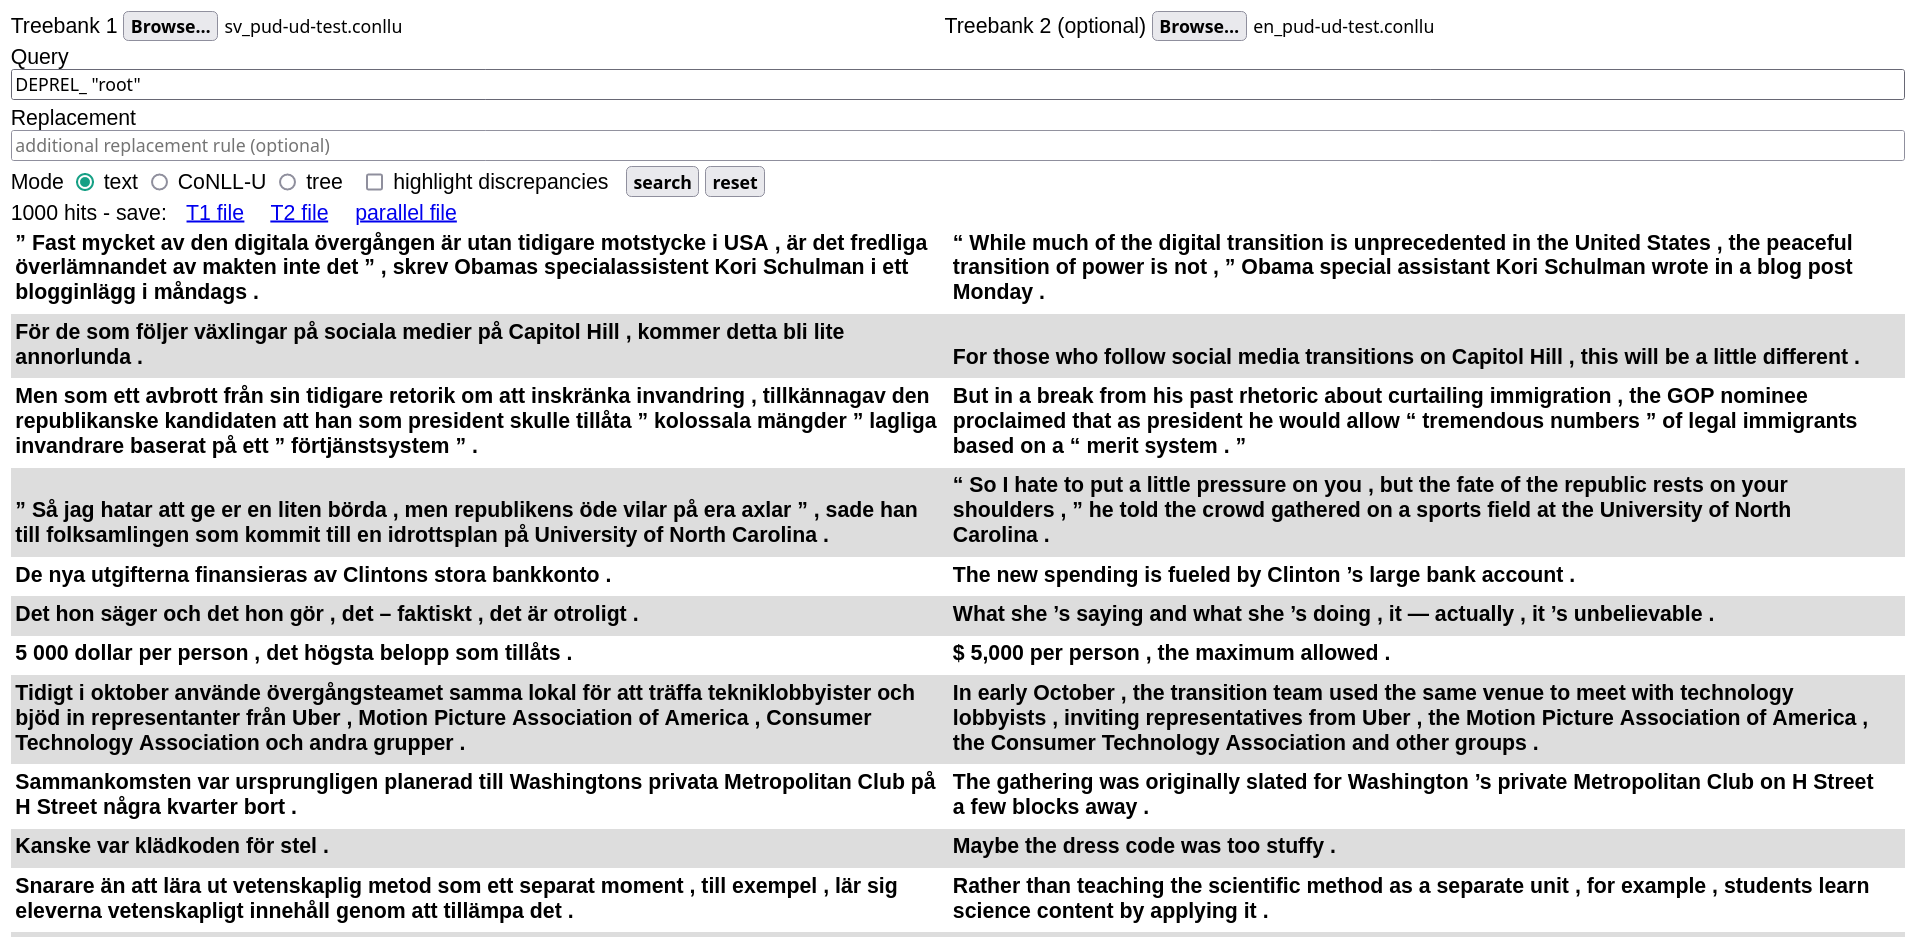
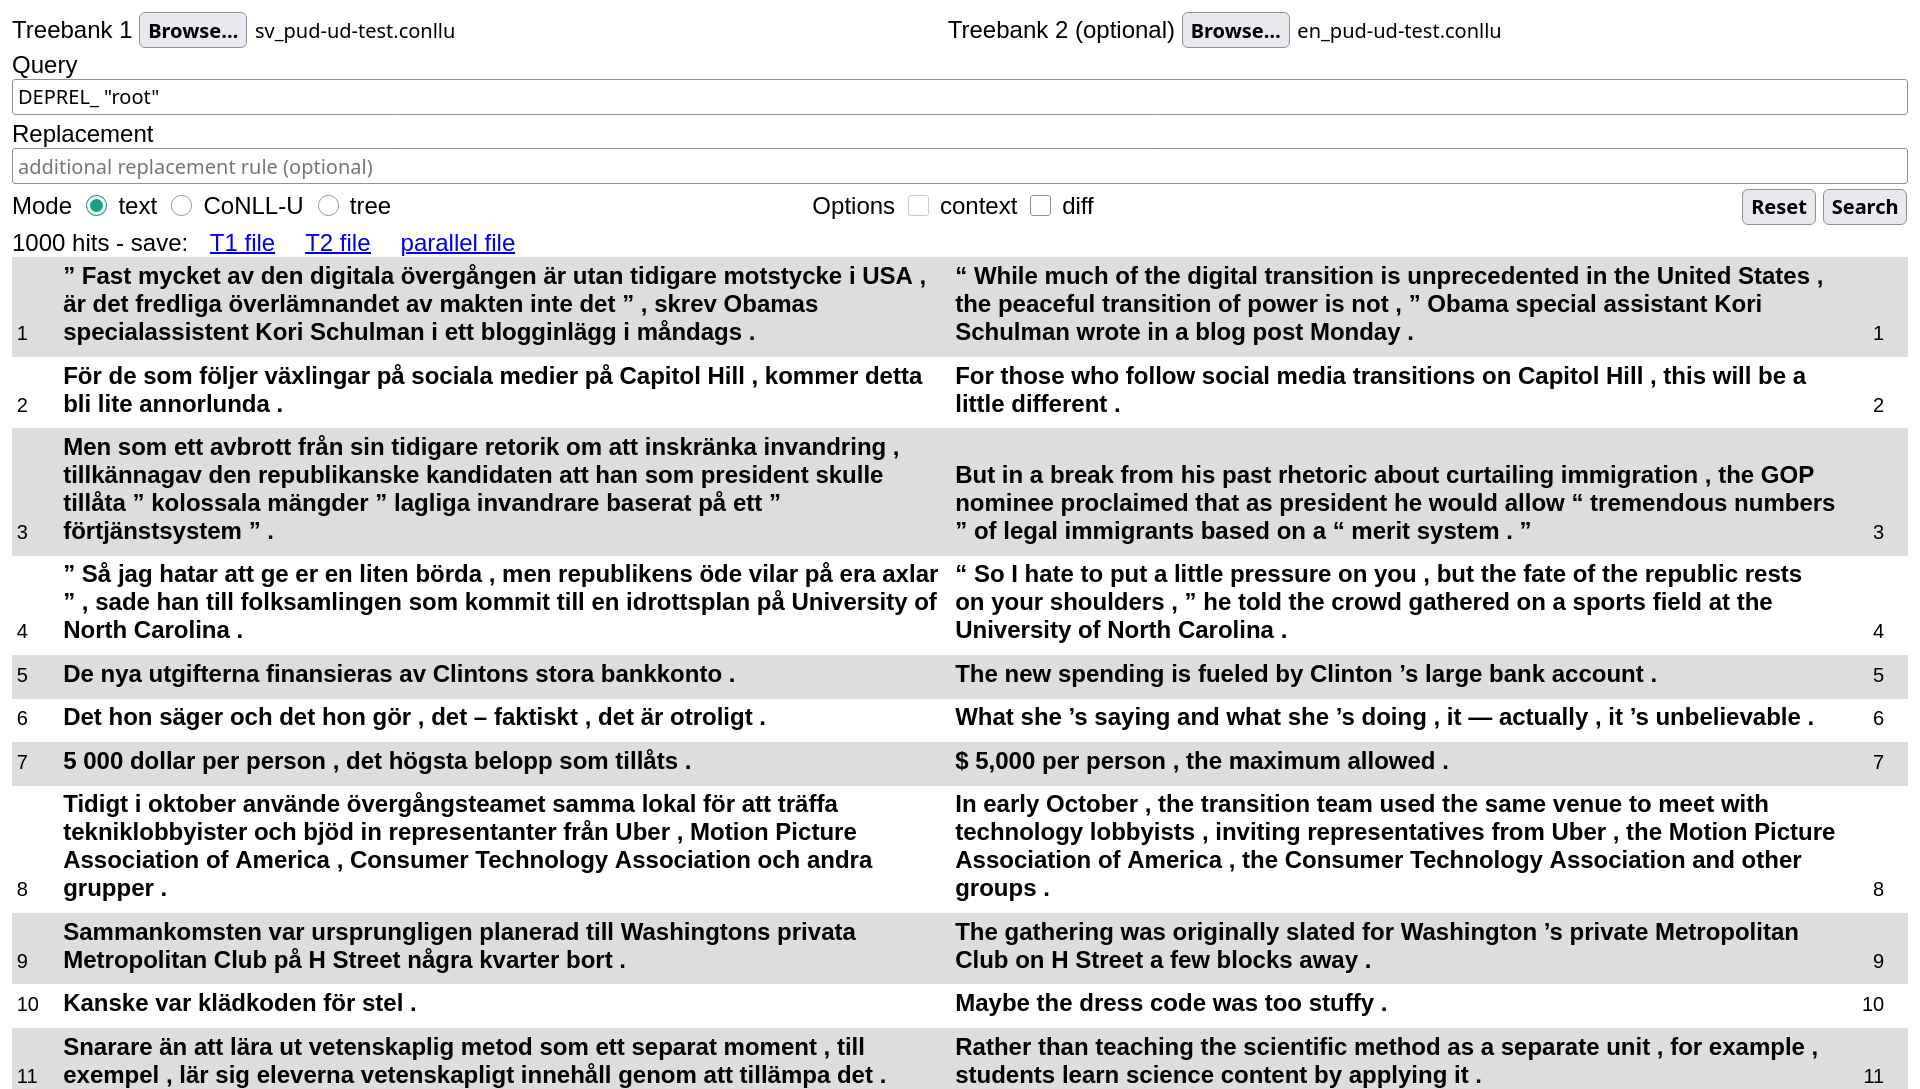
slimmer, updated tutorial and other pages

diff --git a/docs/tutorial.md b/docs/tutorial.md
@@ -5,17 +5,21 @@ layout: base
 
 # Getting started with STUnD
 
-## Specifying input files
+## Specifying the input files
 ![start screen](img/start.png)
 
-The "Browse..." buttons are used to specify one or two (parallel) input files, which have to be in strict [CoNNL-U format](https://universaldependencies.org/format.html). 
+The "Browse..." buttons are used to specify one or two (parallel) input files, which have to be in either __strict [CoNNL-U format](https://universaldependencies.org/format.html)__ or __"horizontal" plain text__ (one sentence per line). 
 
-If you only specify the input file(s), leaving the other fields blank, clicking "search" will run a default query that returns the full treebank:
+Plain text files are parsed with the [UDPipe 2 API](https://lindat.mff.cuni.cz/services/udpipe/api-reference.php), using the default model for the language they are written in.
+The language can be made explicit as a two-letter code followed by an underscore in the beginning of the name of the file (for example, an input file called `sv_rawtext.txt` would be assumed to be in Swedish). 
+If this is not the case, the language is automatically inferred.
+
+If you only specify the input file(s), leaving the other fields blank, clicking "Search" will run a default query that retrieves all sentences in the treebank(s):
 
 ![null search](img/null_search.png)
 
 ## Running a query
-Queries are specified in first text input field:
+Queries are specified in the first text input field:
 
 ![query for presens perfekt](img/presens_perfekt.png)
 
@@ -31,7 +35,7 @@ TREE_ (FEATS_ "VerbForm=Sup") [AND [LEMMA "ha", FEATS_ "Tense=Pres"]]
 This is a _simple_ or _monolingual_ query, looking for present perfect constructions in the Swedish treebank.
 It reads as
 
-> Look for (sub)trees (`TREE_`) where the root is a supinum (`(FEATS_ "VerbForm=Sup")`) and one of its direct dependents is the present of the verb "ha" (`AND [LEMMA "ha", FEATS_ "Tense=Pres"]`).
+> Look for (sub)trees (`TREE_`) where the root is a supinum (`(FEATS_ "VerbForm=Sup")`), one of whose direct dependents is the present of the verb "ha" (`AND [LEMMA "ha", FEATS_ "Tense=Pres"]`).
 
 Now only the subtrees matching the query (often full trees in this case) are highlighted in bold (cf. last row). 
 
@@ -46,18 +50,18 @@ It is then very easy to modify the query for other structurally similar tenses:
 - `TREE_ (FEATS_ "VerbForm=Sup") [FORM "hade"]` (pluperfect)
 - `TREE_ (FEATS_ "VerbForm=Sup") [FORM "ha"]` (perfect infinitive)
 
-Compared to the original "present perfect" query, these make it easier to see how queries work: first, the program tries to align the two treebanks to identify semantically equivalent subtrees; then the query is run on the left (Swedish) treebank and matching subtrees are returned alongside their English counterpart.
-For this reason, it can find correspondences such as "att ha sagt"-"as saying" (row 4), even though the English construction is not at all similar to the Swedish one. 
-Unlike query matching, the alignment step is not guaranteed to find all correspondences: in the picture below, you can see that sometimes a match is found in the Swedish treebank but nothing is highlighted in the corresponding English sentence (this is the case, for instance, in the last few rows). Some other times, a correspondence is found but is incorrect. 
+Compared to the original "present perfect" query, these make it easier to see how queries work: first, the program tries to align the two treebanks to identify semantically equivalent subtrees; then the query is run on the left (Swedish) treebank  (T1) and matching subtrees are returned alongside their English counterpart (T2).
 
-![perfect infinitive](img/perf_inf.png)
+__Unlike query matching, the alignment step is not guaranteed to find _all_ correspondences__: in the picture above, you can see that sometimes a match is found in the Swedish treebank but nothing is highlighted in the corresponding English sentence (cf. row 4). 
+Some other times, a correspondence is found but is incorrect. 
+These two outcomes can be caused both by annotation errors and limitations of the alignment algorithm, which relies on a set of syntax-based heuristics.
 
 Of course, monolingual queries can also be run on single treebanks:
 
 ![monolingual query on single treebank](img/single.png)
 
 ### Parallel queries
-Queries can also be _parallel_ or _bilingual_. For instance, we can use the following pattern to serach for sentences where a Swedish present perfect corresponds to a passive present tense in English:
+Queries can also be _parallel_ or _bilingual_. For instance, we can use the following pattern to search for sentences where a Swedish present perfect corresponds to a passive present tense in English:
 
 ```haskell
 TREE_ (FEATS_ "VerbForm={Sup->Part}") [AND [LEMMA "{ha->be}", FEATS_ "Tense=Pres"]]
@@ -70,13 +74,13 @@ This produces the following results:
 Note that the second hit here is a false positive, due to the fact that "are" in the clause "there are already..." is also a direct dependent of the main lexical verb "dropped".
 This is unfortunate, but difficult to avoid given how conjuncts are treated in UD.
 
-The basic query language ("UD patterns") is described [here](https://github.com/harisont/deptreehs/blob/main/pattern_matching_and_replacement.md), while the extended version for parallel (bilingual) queries (`{X -> Y}` syntax) is documented [here](https://github.com/harisont/L2-UD#l1-l2-patterns).
+The basic query language ("UD patterns") is described [here](https://github.com/harisont/deptreehs/blob/main/docs/patterns.md), while its extended version for parallel (bilingual) queries (`{X -> Y}` syntax) is documented [here](https://github.com/harisont/L2-UD#l1-l2-patterns).
 
-## Adding a replacement rule
-The last input field can be used to specify a _replacement rule_ to be applied to all matching subtrees in both languages.
-This can help highlighting the relevant parts of each query result and manipulate them.
+## Refining the search results
+The second input field can be used to specify a _replacement rule_ to be applied to all matching subtrees in both languages.
+This can help highlight and manipulate the relevant parts of each query result them.
 
-Understanding replacement rules, which are described [alongside the basic query language](https://github.com/harisont/deptreehs/blob/main/pattern_matching_and_replacement.md), can be slightly more challenging.
+Understanding replacement rules, which are described [alongside the basic query language](https://github.com/harisont/deptreehs/blob/main/docs/patterns.md), can be slightly more challenging.
 
 As a first example,
 
@@ -99,7 +103,7 @@ uses dependency labels to isolate verb constructions of maximum depth 1, thus pr
 ![replacement rule](img/replacement2.png)
 
 ## CoNNL-U and tree mode
-So far, we have seen how to use STUnD in plain text mode.
+So far, we have discussed how to use STUnD in plain text mode.
 Switching to CoNNL-U mode allows inspecting the CoNNL-U (sub)trees __corresponding to bold text in the default text mode__:
 
 ![CoNNL-U mode](img/conllu.png)
@@ -109,31 +113,28 @@ Tree mode renders them as SVG trees:
 ![Tree mode](img/tree.png)
 
 ## Saving the search results
-Query results can be saved as plain text/TSV, CoNNL-U and HTML-embedded SVG trees. 
-The output format depends on the mode (in the example below, for instance, results would be saved as graphical trees).
+Query results can be saved as TSV, CoNNL-U and HTML-embedded SVG trees. 
+The output format depends on the mode in which STUnD is used: in the example above, for instance, results would be saved in SVG.
 
-![download links for the search results](img/download.png)
+Results obtained on parallel treebanks can be saved as two separate files, one per treebank, by clicking on "T1 file" and "T2 file" respectively, or as a single file by choosing "parallel file":
 
-If two treebanks are being compared, results can be saved as two separate files, one per treebank, or as a single "parallel" file:
+- in text mode, the T1 and T2 files are horizontal text files, while the parallel file is TSV. This makes it easy to import search results in any spreadsheet program
+- in CoNNL-U mode, the output is always a new CoNLL-U treebank that can be used, for instance, as input for more refined queries in StUnD, or simply imported into [another CoNNL-U viewer](https://universaldependencies.org/conllu_viewer.html) for further inspection. In parallel files, sentences from the two input treebanks are interleaved
+- similarly, parallel files in tree mode alternate T1 with T2 trees
 
-- in text mode, the T1 and T2 files are simple text (one sentence per line), while the parallel file is tab-separated. This makes it easy to import search results in any spreadsheet program
-- in CoNNL-U mode, the output is always a new treebank, treebank that can, for instance, be used as input for more refined queries in StUnD, or simply imported into [a CoNNL-U viewer](https://universaldependencies.org/conllu_viewer.html) for further inspection.[^1] In the parallel file, sentences from the two input treebanks are alternated
-- similarly, parallel files in tree mode consist in alternating T1-T2 trees
+## Other functionalities
 
-## Other use cases
-So far, we have shown how to use STUnD on multilingual treebanks. 
-Many of the tool's functionalities, however, are also relevant in other scenarios, such as comparing learner sentences with corrections:
+### Validation
+STUnD performs some basic (i.e. __less strict than the [official UD validator](github.com/UniversalDependencies/tools/blob/master/validate.py)__) validation of the input data, checking that all word lines contain 10 tab-separated fields, as well as that all token IDs, UPOS tags and DEPRELs are valid as per the [UD universal annotation guidelines](https://universaldependencies.org/guidelines.html).
+If the treebank contains one or more format errors, these are listed in the user interface:
 
-![example of L1-L2 query on VALICO](img/it_gender.png)
+![format errors](img/format_error.png)
 
-In the image above, you can see STUnD in action on the [VALICO treebank of L2 Italian](https://github.com/UniversalDependencies/UD_Italian-Valico), looking for feminine nouns incorrectly inflected as masculine.
+### Diff mode
+Diff mode, activated by checking the "diff" box, helps users identify discrepancies between two similar treebanks. 
+This feature can be useful when exploring parallel (error-correction) learner treebanks, as well as when comparing alternative analyses of the same text, as in the following example:
 
-By checking "highlight discrepancies", in addition, the tool will highlight all sentence pairs matching the query that present any difference:
+![format errors](img/diff_tree.png)
 
-![highlight discrepancies](img/papers_please.png)
-
-In the case of a learner corpus, "discrepant" means "erroneous", but highlighting discrepancies can also be useful in other settings, such as when comparing different analyses of the same text to resolve disagreement in a linguistic annotation project.
-This functionality is, however, still very rudimentary. 
-In the future, the plan is to refine it to only highlight sentences where the discrepancy occurs in the subtree matching the query.
-
-[^1]: technical note: this works because all extracted subtrees are adjusted so that they have a root node and valid (sequential) IDs.   
+### Manual editing
+On top of replacement patterns, which can be used to apply systematic changes to the input treebank(s), basic manual editing functionalities are available in CoNLL-U mode.

diff --git a/docs/installation.md b/docs/installation.md
@@ -3,13 +3,13 @@ title: Installation
 layout: base
 ---
 
-# Installation
+# Local installation
 
-To compile and run STUnD directly on your computer, you can use either [the Haskell Tool Stack](https://docs.haskellstack.org/en/stable/) or build and run it inside a [Docker](https://www.docker.com/) container.
+To compile and run STUnD on your computer, you can use either [the Haskell Tool Stack](https://docs.haskellstack.org/en/stable/) or build and run it inside a [Docker](https://www.docker.com/) container.
 
 In either case, start by downloading the [source code](https://github.com/harisont/STUnD).
 
-## Installation via Stack
+## Installing STUnD via Stack
 If you have Stack, run  
 
 ```
@@ -34,3 +34,8 @@ docker compose up stund-gui
 ```
 
 This will take a while for the first time because the image has to be built. Afterwards, running the container can be started directly with the same command.
+
+---
+
+For troubleshooting Windows installations, see [here](win.md).
+For details about deployment at SBX, see [here](deployment.md).

diff --git a/docs/pub.md b/docs/pub.md
@@ -3,8 +3,8 @@ title: Publications
 layout: base
 ---
 
-# Publications using STUnD
+# Publications
 
-1. [Arianna Masciolini and Márton A Tóth. _STUnD: ett Sökverktyg för Tvåspråkiga Universal Dependencies-trädbanker._ In Proceedings of the Huminfra Conference, pages 95–109, Gothenburg, Sweden, 2024](https://doi.org/10.3384/ecp205013)
+1. [Arianna Masciolini and Márton A Tóth. _STUnD: ett Sökverktyg för Tvåspråkiga Universal Dependencies-trädbanker._ In Proceedings of the Huminfra Conference, pages 95–109, Gothenburg, Sweden, 2024](https://doi.org/10.3384/ecp205013) ([bibtex](stund.bib)): this paper describes STUnD's first prototype and exemplifies its usage through a small case study on a bilingual treebank
 
 A more extensive and up-to-date publication in English is currently in preparation.

diff --git a/docs/win.md b/docs/win.md
@@ -1,4 +1,4 @@
-# Compiling on Windows
+# Known issues (Windows)
 It appears that `curl`, __but not `curllib`__, is installed by default on Windows10+. Therefore it is necessary to:
 
 1. Download and extract `curl` binaries for windows(https://curl.se/windows/)
